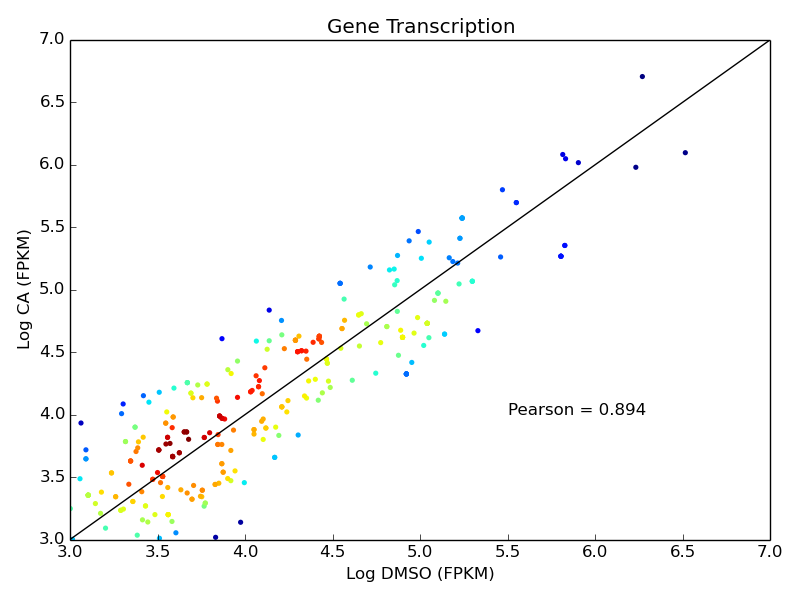
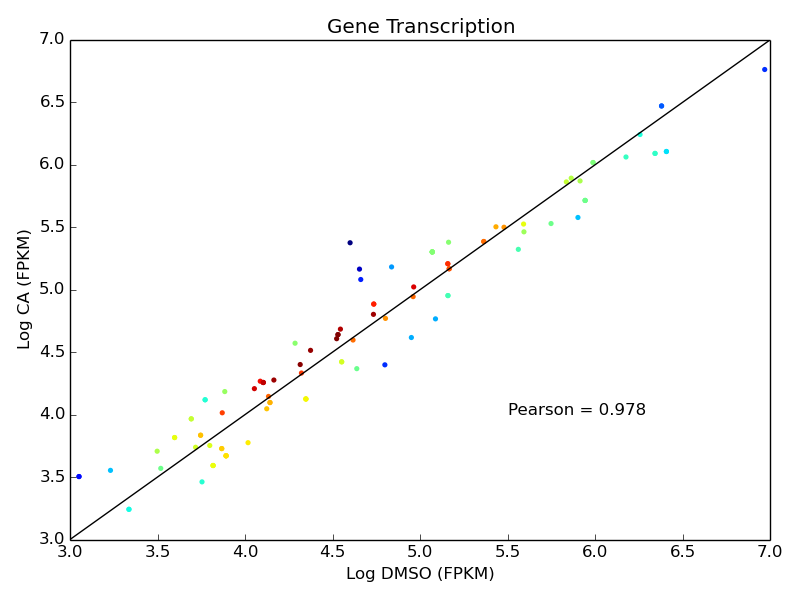
updates

diff --git a/src/main.py b/src/main.py
@@ -8,17 +8,17 @@ import reflect_coverage
 import bedtools_create_intersects
 import master_writer
 
-#Specify DMSO treated bedgraph directory
-DMSO = '/scratch/Users/joru1876/GROSeqRaw/flipped/bowtie2/sortedbam/genomecoveragebed/fortdf/JDR_DMSO_SS102217_093015_CAGATC_L005_R1_001.flip.fastqbowtie2.sorted.BedGraph.mp.BedGraph'
+# #Specify DMSO treated bedgraph directory
+# DMSO = '/scratch/Users/joru1876/GROSeqRaw/flipped/bowtie2/sortedbam/genomecoveragebed/fortdf/JDR_DMSO_SS102217_093015_CAGATC_L005_R1_001.flip.fastqbowtie2.sorted.BedGraph.mp.BedGraph'
 
-#Specify CA treated bedgraph directory
-CA = '/scratch/Users/joru1876/GROSeqRaw/flipped/bowtie2/sortedbam/genomecoveragebed/fortdf/JDR_CA_SS102217_093015_ACTTGA_L005_R1_001.flip.fastqbowtie2.sorted.BedGraph.mp.BedGraph'
+# #Specify CA treated bedgraph directory
+# CA = '/scratch/Users/joru1876/GROSeqRaw/flipped/bowtie2/sortedbam/genomecoveragebed/fortdf/JDR_CA_SS102217_093015_ACTTGA_L005_R1_001.flip.fastqbowtie2.sorted.BedGraph.mp.BedGraph'
 
-#Specify gene annotations
-genes = '/scratch/Users/joru1876/GROSeqRaw/flipped/bowtie2/sortedbam/genomecoveragebed/fortdf/refGene.sorted.bed'
+# #Specify gene annotations
+# genes = '/scratch/Users/joru1876/GROSeqRaw/flipped/bowtie2/sortedbam/genomecoveragebed/fortdf/refGene.sorted.bed'
 
-#ChIP directory to get closest genes - currently set at SRF ChIP dataset
-chipdir = '/scratch/Shares/dowell/ENCODE/old/HCT116/SRF/peak_files/ENCFF001UEM.bed'
+# #ChIP directory to get closest genes - currently set at SRF ChIP dataset
+# chipdir = '/scratch/Shares/dowell/ENCODE/old/HCT116/SRF/peak_files/ENCFF001UEM.bed'
 
 #Specify list of genes to examine
 #genelist = ['CYR61','NR4A3','FOS','ATF3','EGR2','FOSB','JUN','NR4A1','DUSP1','NR4A2','DUSP2','EGR3','BTG2','WEE1','THBS1','ZFP36','SNF1LK','EGR1','JUNB','BHLHB2','AXUD1','PTG52','IER2','DUSP5','PLK2','GEM','GDF15','KLF6','SNORD102']
@@ -68,18 +68,20 @@ def run():
     # print "Calculating closest genes to ChIP file..."
     # genelist = closest_gene.run(chipdir,genes,filedir)
     # genes = genelist
-    print "Creating annotation files..."
-    create_annotations.run(genes,filedir)
-    TSS = filedir + '/TSS.sorted.bed'
-    END = filedir + '/END.sorted.bed'
-    print "done\nReflecting coverage values..."
-    reflect_coverage.run(DMSO,CA,filedir)
-    print "done\nCreating intersect files..."
-    DMSOreflect = filedir + '/DMSO.bedgraph'
-    CAreflect = filedir + '/CA.bedgraph'
-    bedtools_create_intersects.run(DMSOreflect,CAreflect,genes,TSS,END,filedir)
-    os.system("rm " + filedir + "/DMSO.bedgraph")
-    os.system("rm " + filedir + "/CA.bedgraph")
+
+    
+    # print "Creating annotation files..."
+    # create_annotations.run(genes,filedir)
+    # TSS = filedir + '/TSS.sorted.bed'
+    # END = filedir + '/END.sorted.bed'
+    # print "done\nReflecting coverage values..."
+    # reflect_coverage.run(DMSO,CA,filedir)
+    # print "done\nCreating intersect files..."
+    # DMSOreflect = filedir + '/DMSO.bedgraph'
+    # CAreflect = filedir + '/CA.bedgraph'
+    # bedtools_create_intersects.run(DMSOreflect,CAreflect,genes,TSS,END,filedir)
+    # os.system("rm " + filedir + "/DMSO.bedgraph")
+    # os.system("rm " + filedir + "/CA.bedgraph")
     print "done\nGenerating files..."
     DMSOgenes = filedir + '/DMSO.genes.bed'
     DMSOTSS = filedir + '/DMSO.TSS.bed'

diff --git a/src/master_writer.py b/src/master_writer.py
@@ -93,7 +93,7 @@ def run(DMSOgenes,DMSOTSS,DMSOEND,CAgenes,CATSS,CAEND,filedir,figuredir):
         CAgenes = float(CAgenes)
         CATSS = float(CATSS)
         CAEND = float(CAEND)
-        graphcutoff = 20
+        graphcutoff = 100
         name = gene.split(';')[1]
         
         #Populate lists to perform pearsons coefficient test for transcription across all gene bodies that are above a cutoff
